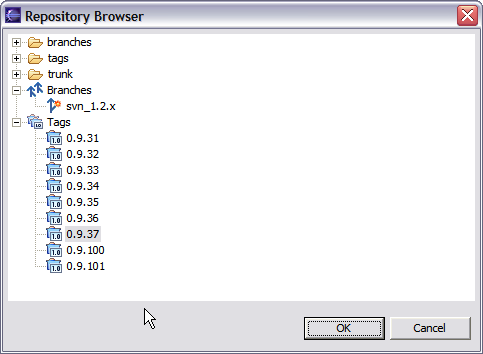
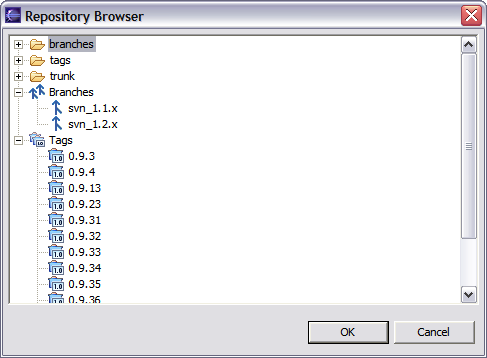
Updated branch/tag information with Configure Tags option.

diff --git a/www/branch_tag.html b/www/branch_tag.html
@@ -40,8 +40,18 @@ revision_number,tag_name,relative_path,branch/tag
 
 <img src="images/branch_tag/property.png" alt="Property" />
 
-<p>A <b>Configure Tags</b> option will be added to the Team menu which will invoke a custom editor
-for maintaining this property.  Once the property has been defined, there are a number of ways that
+<p>The above screenshot shows what the property looks like.  However there is a <b>Configure Branches/Tags</b> option
+on the Team menu that allows you to edit the property using a custom editor.</p>
+
+<img src="images/branch_tag/configure1.png" alt="Configure" />
+
+<p>Besides providing basic editing capabilities, the dialog also includes a built-in repository browser.  This allows
+you to select one or more folders and add them as a branch/tag in one action.  When folders are added in this manner,
+Subclipse automatically fills in the Revision number based on the Last Changed Revision of the selected folder.</p>
+
+<img src="images/branch_tag/configure2.png" alt="Configure" />
+
+<p>Once the property has been defined, there are a number of ways that
 Subclipse takes advantage of it.</p>
 
 <h3>History Browsing</h3>
@@ -75,11 +85,9 @@ the enhanced URL Chooser, it is a very nice option.</p>
 
 <div class="h2" id="remaining" title="remaining">
 <h2>Remaining Work</h2>
-<p>There are two more pieces that are still being developed.  The first is the aforementioned custom editor
-for maintaining this property.  This will just make it easier to configure the information properly and not
-be concerned with how the property needs to be layed out.  The second item is enhancing the Create Branch/Tag
-otion so that it is capable of updating the property.  Of course that can only be done locally and the property
-change would still need to be committed in a second operation.</p>
+<p>There is just one remaining piece to be developed and that is to enhance the Create Branch/Tag
+otion so that it is capable of updating the property automatically when a branch/tag is created.
+Of course that can only be done locally and the property change would still need to be committed in a second operation.</p>
 
 </div>
 </body>
